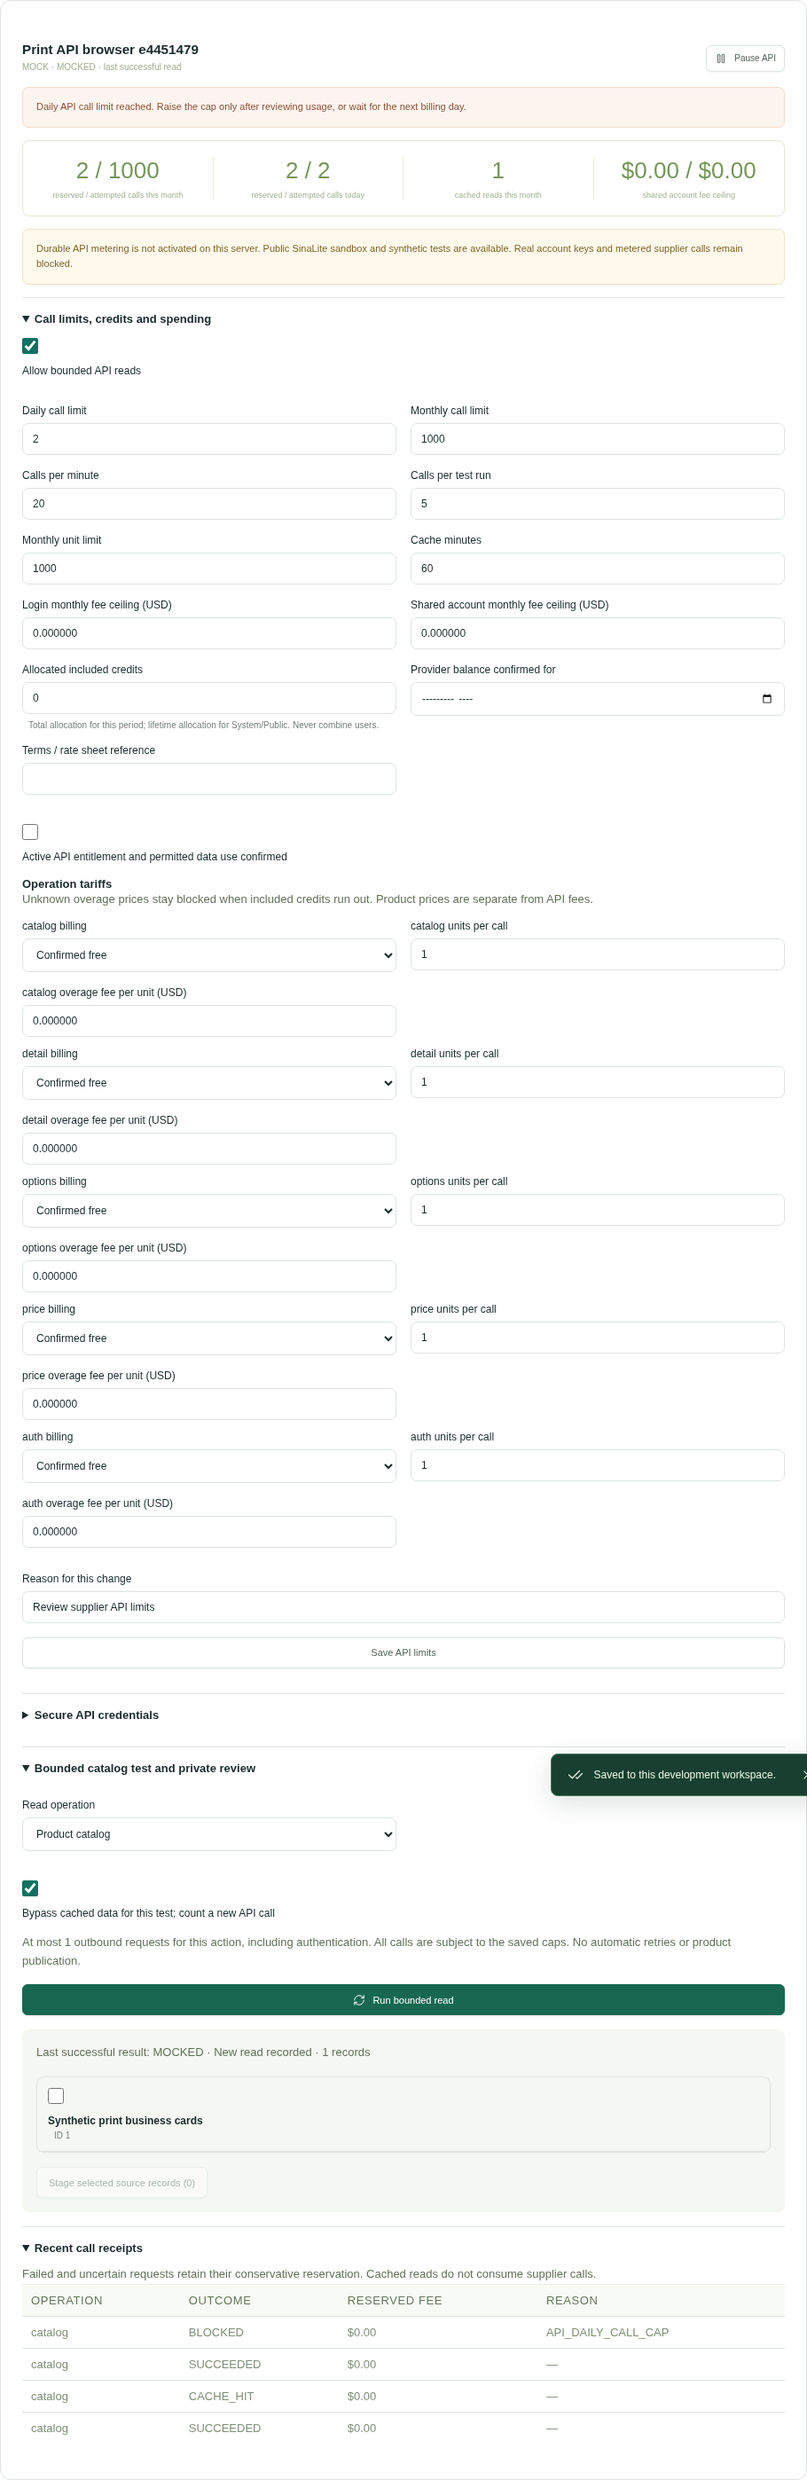
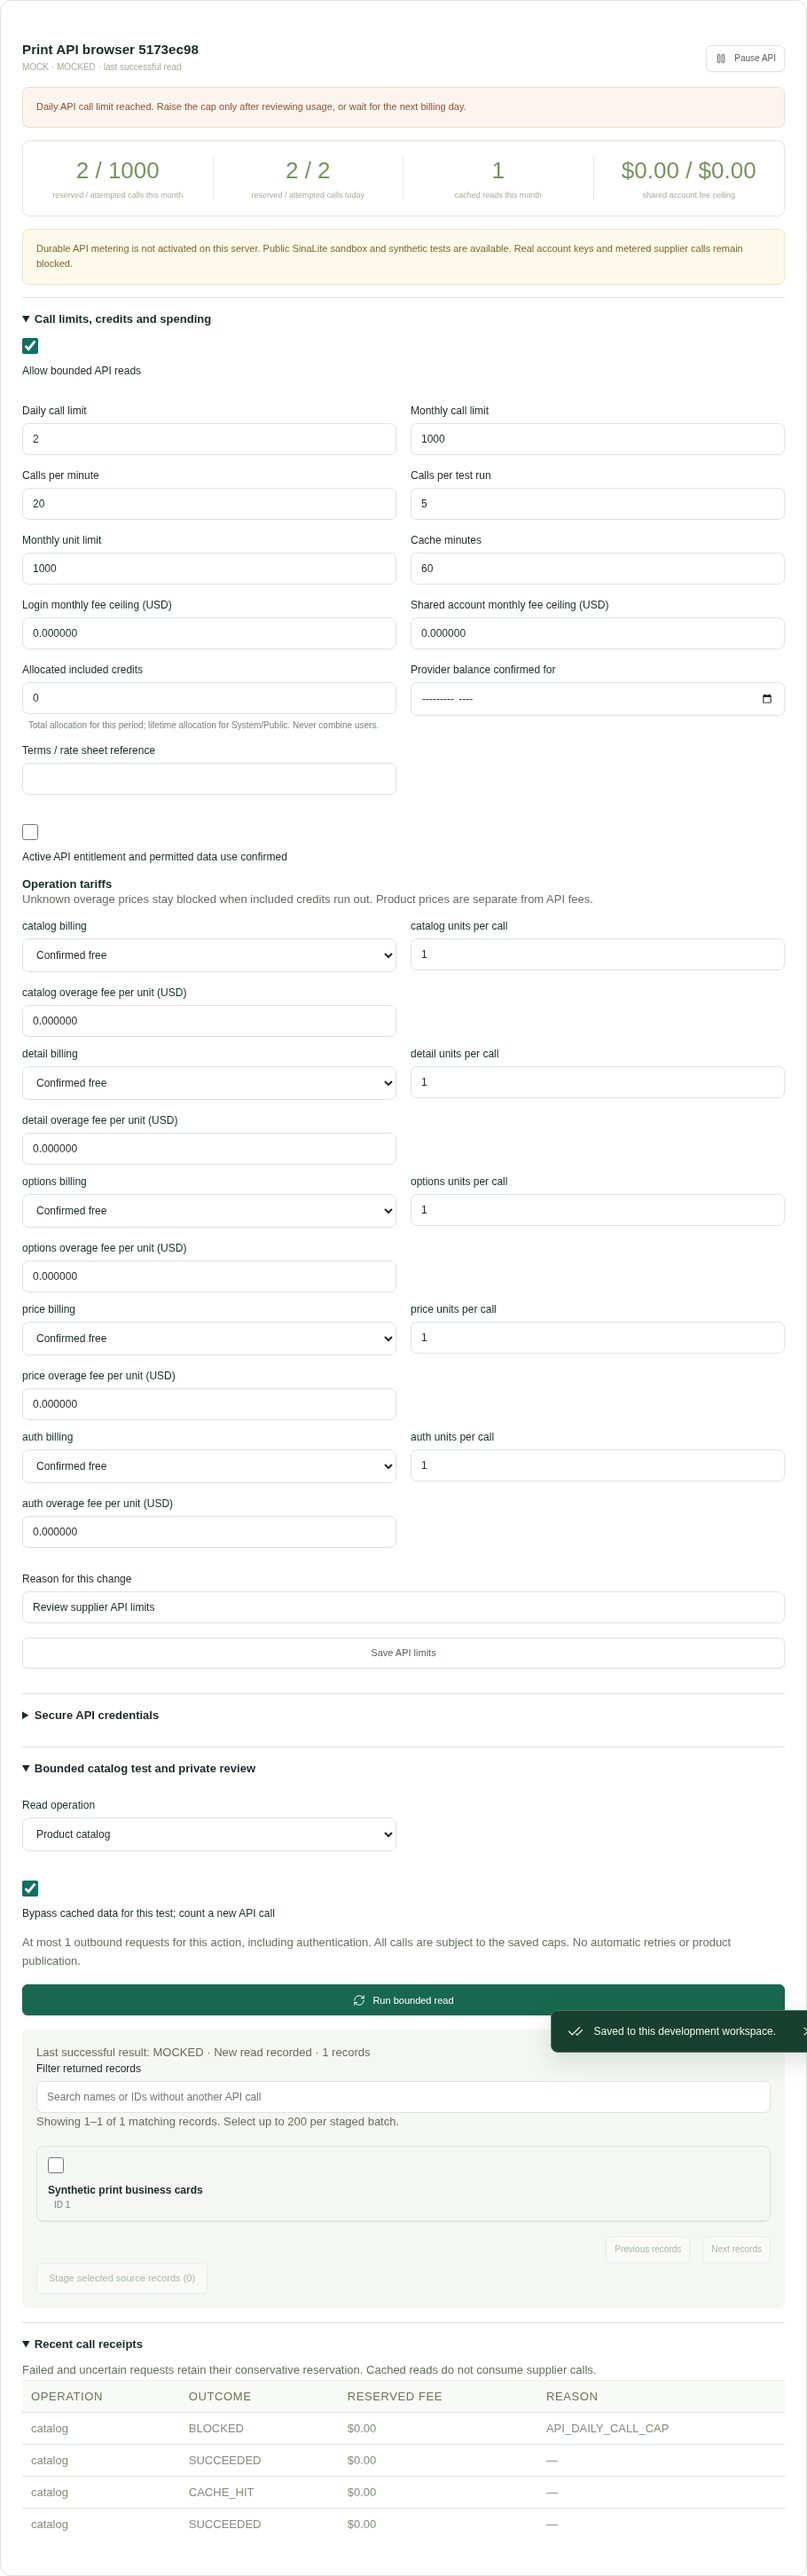
Page cached supplier results without extra API queries

diff --git a/apps/os/components/supplier-api-controls.tsx b/apps/os/components/supplier-api-controls.tsx
@@ -39,16 +39,18 @@ function NativeConnection({connection}:{connection:Row}){
  const [dashboard,setDashboard]=useState<Dashboard|null>(null),[policy,setPolicy]=useState<ApiPolicy|null>(null),[accountSpend,setAccountSpend]=useState('0'),[reason,setReason]=useState('Review supplier API limits'),[approval,setApproval]=useState(''),[busy,setBusy]=useState(false),[error,setError]=useState(''),[notice,setNotice]=useState('');
  const [credentialAccount,setCredentialAccount]=useState(''),[credentialLogin,setCredentialLogin]=useState(''),[secret,setSecret]=useState('');
  const sage=connection.data.providerType==='SAGE_CONNECT';
- const [operation,setOperation]=useState<Operation>(sage?'research':'catalog'),[category,setCategory]=useState('Flashlights'),[productId,setProductId]=useState('1'),[store,setStore]=useState<6|9>(9),[force,setForce]=useState(false),[result,setResult]=useState<ReadResult|null>(null),[selected,setSelected]=useState<string[]>([]),[options,setOptions]=useState<Option[]>([]),[chosen,setChosen]=useState<Record<string,number>>({});
+ const [operation,setOperation]=useState<Operation>(sage?'research':'catalog'),[category,setCategory]=useState('Flashlights'),[productId,setProductId]=useState('1'),[store,setStore]=useState<6|9>(9),[force,setForce]=useState(false),[result,setResult]=useState<ReadResult|null>(null),[selected,setSelected]=useState<string[]>([]),[reviewPage,setReviewPage]=useState(0),[reviewSearch,setReviewSearch]=useState(''),[options,setOptions]=useState<Option[]>([]),[chosen,setChosen]=useState<Record<string,number>>({});
  const load=async()=>{const data=(await command('supplier','api_dashboard',{id:connection.id})).result as Dashboard;setDashboard(data);setPolicy(data.policy);setAccountSpend(data.accountSpendLimit);return data;};
  useEffect(()=>{let active=true;void command('supplier','api_dashboard',{id:connection.id}).then(response=>{if(active){const data=response.result as Dashboard;setDashboard(data);setPolicy(data.policy);setAccountSpend(data.accountSpendLimit);}}).catch(e=>{if(active)setError(e instanceof Error?e.message:'Usage unavailable');});return()=>{active=false;};},[connection.id]);
  async function execute(action:string,input:Data,success:string){setBusy(true);setError('');setNotice('');try{const response=await command('supplier',action,{id:connection.id,...input});setSecret('');await load();setNotice(success);return response.result;}catch(e){setSecret('');setError(apiError(e));if(action==='api_read')await load().catch(()=>undefined);}finally{setBusy(false);}}
  async function read(){
   const value=await execute('api_read',{operation,category,productId:Number(productId),storeCode:store,optionIds:Object.values(chosen),forceRefresh:force,idempotencyKey:key()},'Read completed. Review its verification and source data below. No products were published.') as ReadResult|undefined;
-  if(!value)return;setResult(value);setSelected([]);
+  if(!value)return;setResult(value);setSelected([]);setReviewPage(0);setReviewSearch('');
   if(operation==='options'&&Array.isArray(value.result.options)){setOptions(value.result.options as Option[]);setChosen({});}
  }
  const candidates=(Array.isArray(result?.result.items)?result!.result.items:[]) as ProductCandidate[];
+ const matchingCandidates=candidates.filter(row=>`${row.name} ${row.id}`.toLowerCase().includes(reviewSearch.trim().toLowerCase()));
+ const pagedCandidates=matchingCandidates.slice(reviewPage*50,reviewPage*50+50);
  const productResult=result&&['catalog','detail','full_detail','search'].includes(asString(result.result.operation,operation));
  const groups=[...new Set(options.filter(o=>!o.hidden).map(o=>o.group))];
  const ops:Operation[]=sage?['research','search','detail','full_detail']:['catalog','detail','options','price'];
@@ -82,7 +84,7 @@ function NativeConnection({connection}:{connection:Row}){
      <label className="api-check"><input type="checkbox" checked={force} onChange={e=>setForce(e.target.checked)}/>Bypass cached data for this test; count a new API call</label><p>At most {dashboard.credentialConfigured&&!sage?2:1} outbound requests for this action, including authentication. All calls are subject to the saved caps. No automatic retries or product publication.</p><button className="button primary" type="submit" disabled={!policy.enabled||busy||operation==='price'&&!groups.length}><RefreshCw size={14}/>Run bounded read</button>
     </fieldset></form>
     {result&&<div className="api-result"><p role="status">Last successful result: {result.verification} · {result.cacheHit?'Cached or repeated command · no new supplier call':'New read recorded'} · {candidates.length} records</p>
-     {candidates.length>0&&<><div className="api-candidates">{candidates.slice(0,200).map(row=><label key={row.id}><input type="checkbox" disabled={!productResult||row.enabled===false} checked={selected.includes(String(row.id))} onChange={e=>setSelected(previous=>e.target.checked?[...previous,String(row.id)]:previous.filter(id=>id!==String(row.id)))}/><span><strong>{row.name}</strong><small>ID {row.id}{row.enabled===false?' · supplier disabled':''}{row.publicPriceRange?` · unverified catalog range ${row.publicPriceRange}`:''}</small></span></label>)}</div>{productResult&&<button className="button secondary" disabled={busy||selected.length===0} onClick={()=>void execute('api_stage_result',{callId:result.callId,selectedIds:selected},'Selected source records staged privately. Review Products before creating drafts. Nothing published.')}>Stage selected source records ({selected.length})</button>}</>}
+     {candidates.length>0&&<><label>Filter returned records<input value={reviewSearch} onChange={e=>{setReviewSearch(e.target.value);setReviewPage(0);}} placeholder="Search names or IDs without another API call"/></label><p>Showing {matchingCandidates.length?reviewPage*50+1:0}–{Math.min((reviewPage+1)*50,matchingCandidates.length)} of {matchingCandidates.length} matching records. Select up to 200 per staged batch.</p><div className="api-candidates">{pagedCandidates.map(row=><label key={row.id}><input type="checkbox" disabled={!productResult||row.enabled===false||selected.length>=200&&!selected.includes(String(row.id))} checked={selected.includes(String(row.id))} onChange={e=>setSelected(previous=>e.target.checked?[...previous,String(row.id)]:previous.filter(id=>id!==String(row.id)))}/><span><strong>{row.name}</strong><small>ID {row.id}{row.enabled===false?' · supplier disabled':''}{row.publicPriceRange?` · unverified catalog range ${row.publicPriceRange}`:''}</small></span></label>)}</div><div className="row-actions"><button className="button secondary compact" disabled={reviewPage===0} onClick={()=>setReviewPage(p=>p-1)}>Previous records</button><button className="button secondary compact" disabled={(reviewPage+1)*50>=matchingCandidates.length} onClick={()=>setReviewPage(p=>p+1)}>Next records</button>{selected.length>0&&<button className="text-button" onClick={()=>setSelected([])}>Clear selection</button>}</div>{productResult&&<button className="button secondary" disabled={busy||selected.length===0} onClick={()=>void execute('api_stage_result',{callId:result.callId,selectedIds:selected},'Selected source records staged privately. Review Products before creating drafts. Nothing published.')}>Stage selected source records ({selected.length})</button>}</>}
      {Array.isArray(result.result.options)&&<p>{result.result.options.length} exact supplier option IDs loaded. Switch to Configured supplier price to test a selection.</p>}
      {Boolean(result.result.price)&&<p>Supplier configuration price: {asString(result.result.currency)} {asString(result.result.price)}. Shipping, tax and your selling price remain unconfirmed.</p>}
     </div>}

diff --git a/docs/supplier-api/README.md b/docs/supplier-api/README.md
@@ -4,7 +4,7 @@ Status: implemented and tested locally on 2026-11-09. Hosted preview deployment 
 
 ## Implemented functionality
 
-- Commerce OS → Integration Center → **Metered supplier APIs**: create SAGE/SinaLite connections, configure call/unit/spending caps, inspect usage and receipts, pause a login, replace encrypted credentials, run bounded reads, and select source records for private catalog review.
+- Commerce OS → Integration Center → **Metered supplier APIs**: create SAGE/SinaLite connections, configure call/unit/spending caps, inspect usage and receipts, pause a login, replace encrypted credentials, run bounded reads, and filter and page through returned records locally, and select source records for private catalog review. Paging/filtering makes no additional supplier queries.
 - Per-login daily/monthly/minute/run call limits and monthly weighted-unit limits. A shared account spending ceiling applies across SAGE login keys. Monetary ceilings default to $0; unknown overage rates are blocked. A positive ceiling requires an owner approval statement for the current billing month and an audit reason.
 - Committed PostgreSQL reservations occur **before** network dispatch. Parallel requests serialize against the same billing group. Failed, malformed and uncertain responses retain conservative reservations; later import rollback cannot erase usage. No automatic retries or refunds. These are reserved ceilings, not a supplier invoice.
 - Named-user monthly credits and System/Public one-time credits are separate. One-time usage remains in the lifetime balance across calendar rollover. Duplicate connections, key replacement and leading-zero account aliases do not create another allowance. Current balance confirmation is required for fee-based SAGE modules; allocations never automatically renew.
